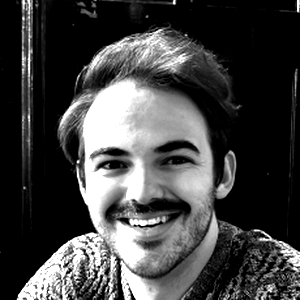
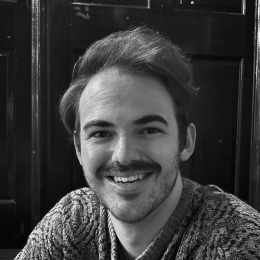
Fix portrait clipping on scroll; restore original portrait zoom
- Expand orthographic camera frustum by 200px margin on all sides so
  particles targeting the viewport edge don't get hardware-clipped while
  the anchor div is near top/bottom of screen during scroll
- Restore original uncropped portrait photos (pre-head-crop) so faces
  show head + shoulders rather than tight face-only zoom

diff --git a/src/index.html b/src/index.html
@@ -846,10 +846,11 @@ void main(){
   renderer.setSize(window.innerWidth, window.innerHeight);
 
   const scene = new THREE.Scene();
+  const CAM_MARGIN = 200; // extra world-units beyond viewport so edge particles don't clip
   const fovH = window.innerHeight / 2;
   const camera = new THREE.OrthographicCamera(
-    -window.innerWidth / 2, window.innerWidth / 2,
-    fovH, -fovH, 1, 1000
+    -window.innerWidth / 2 - CAM_MARGIN, window.innerWidth / 2 + CAM_MARGIN,
+    fovH + CAM_MARGIN, -(fovH + CAM_MARGIN), 1, 1000
   );
   camera.position.z = 500;
 
@@ -1173,8 +1174,8 @@ void main(){
   window.addEventListener('resize', () => {
     const w2 = window.innerWidth, h2 = window.innerHeight;
     renderer.setSize(w2, h2);
-    camera.left = -w2 / 2; camera.right = w2 / 2;
-    camera.top = h2 / 2; camera.bottom = -h2 / 2;
+    camera.left = -w2 / 2 - CAM_MARGIN; camera.right = w2 / 2 + CAM_MARGIN;
+    camera.top = h2 / 2 + CAM_MARGIN; camera.bottom = -(h2 / 2 + CAM_MARGIN);
     camera.updateProjectionMatrix();
     material.uniforms.uResolution.value.set(w2, h2);
     material.uniforms.uSize.value = w2 < 768 ? 2.2 : 4.0;